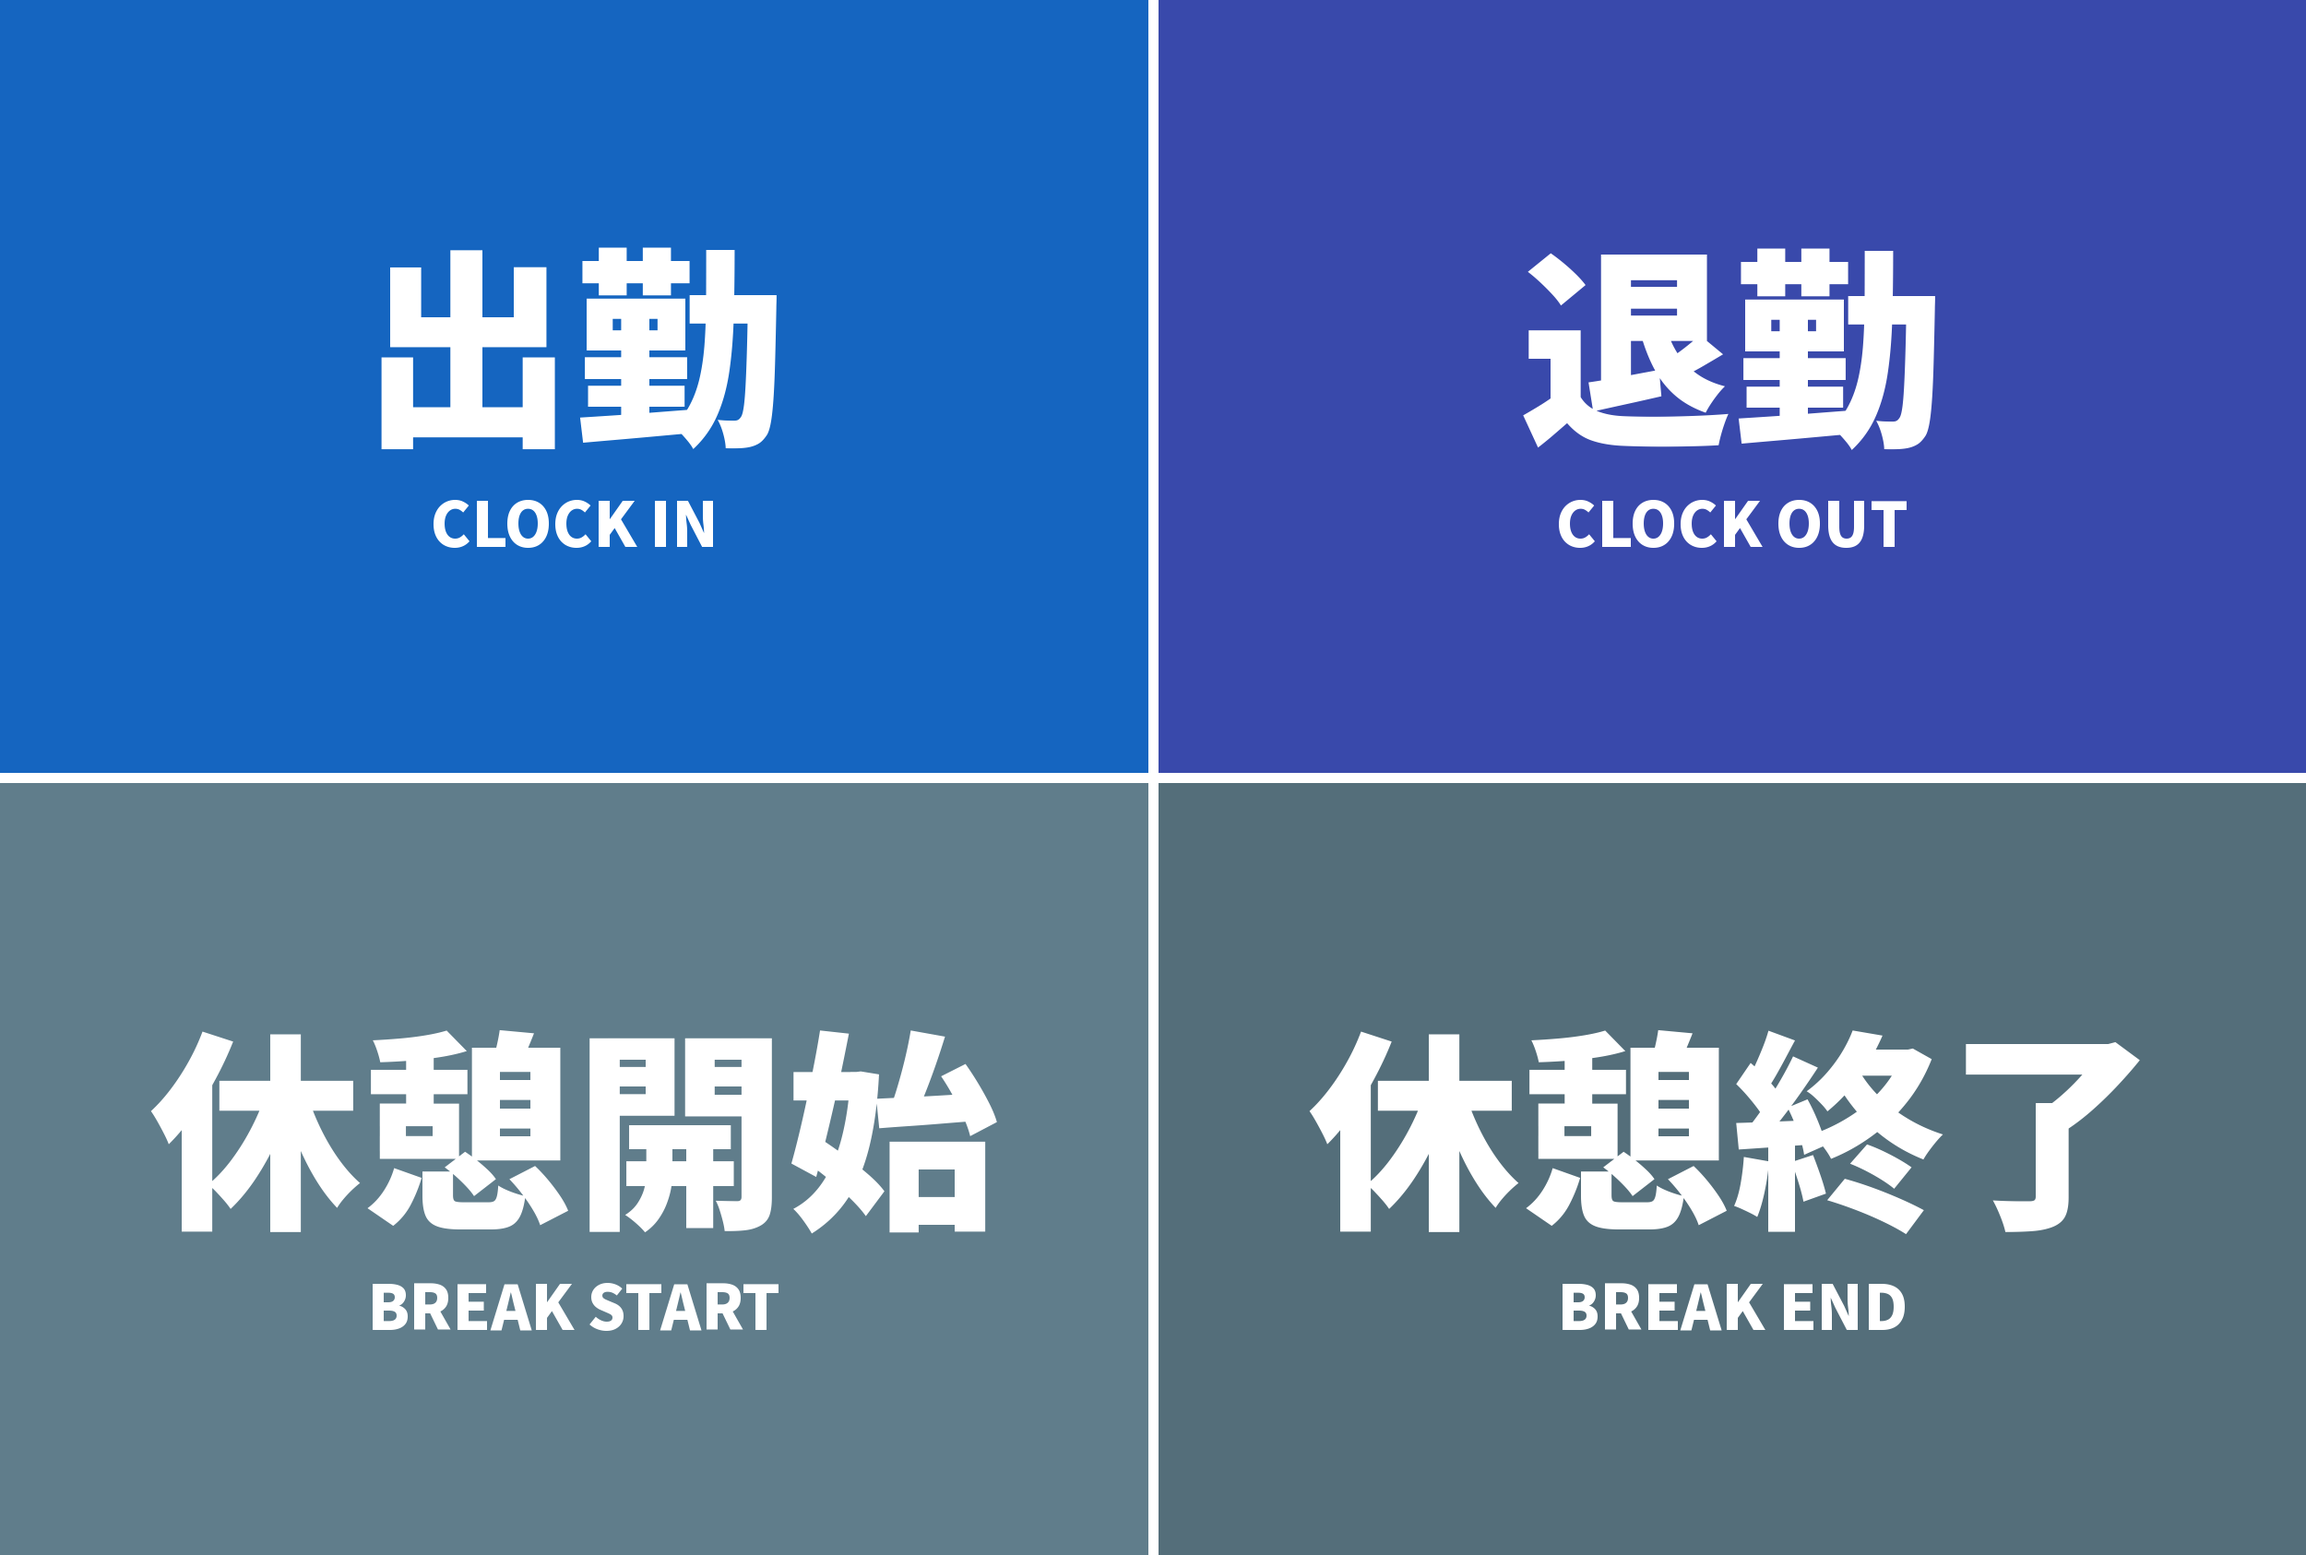
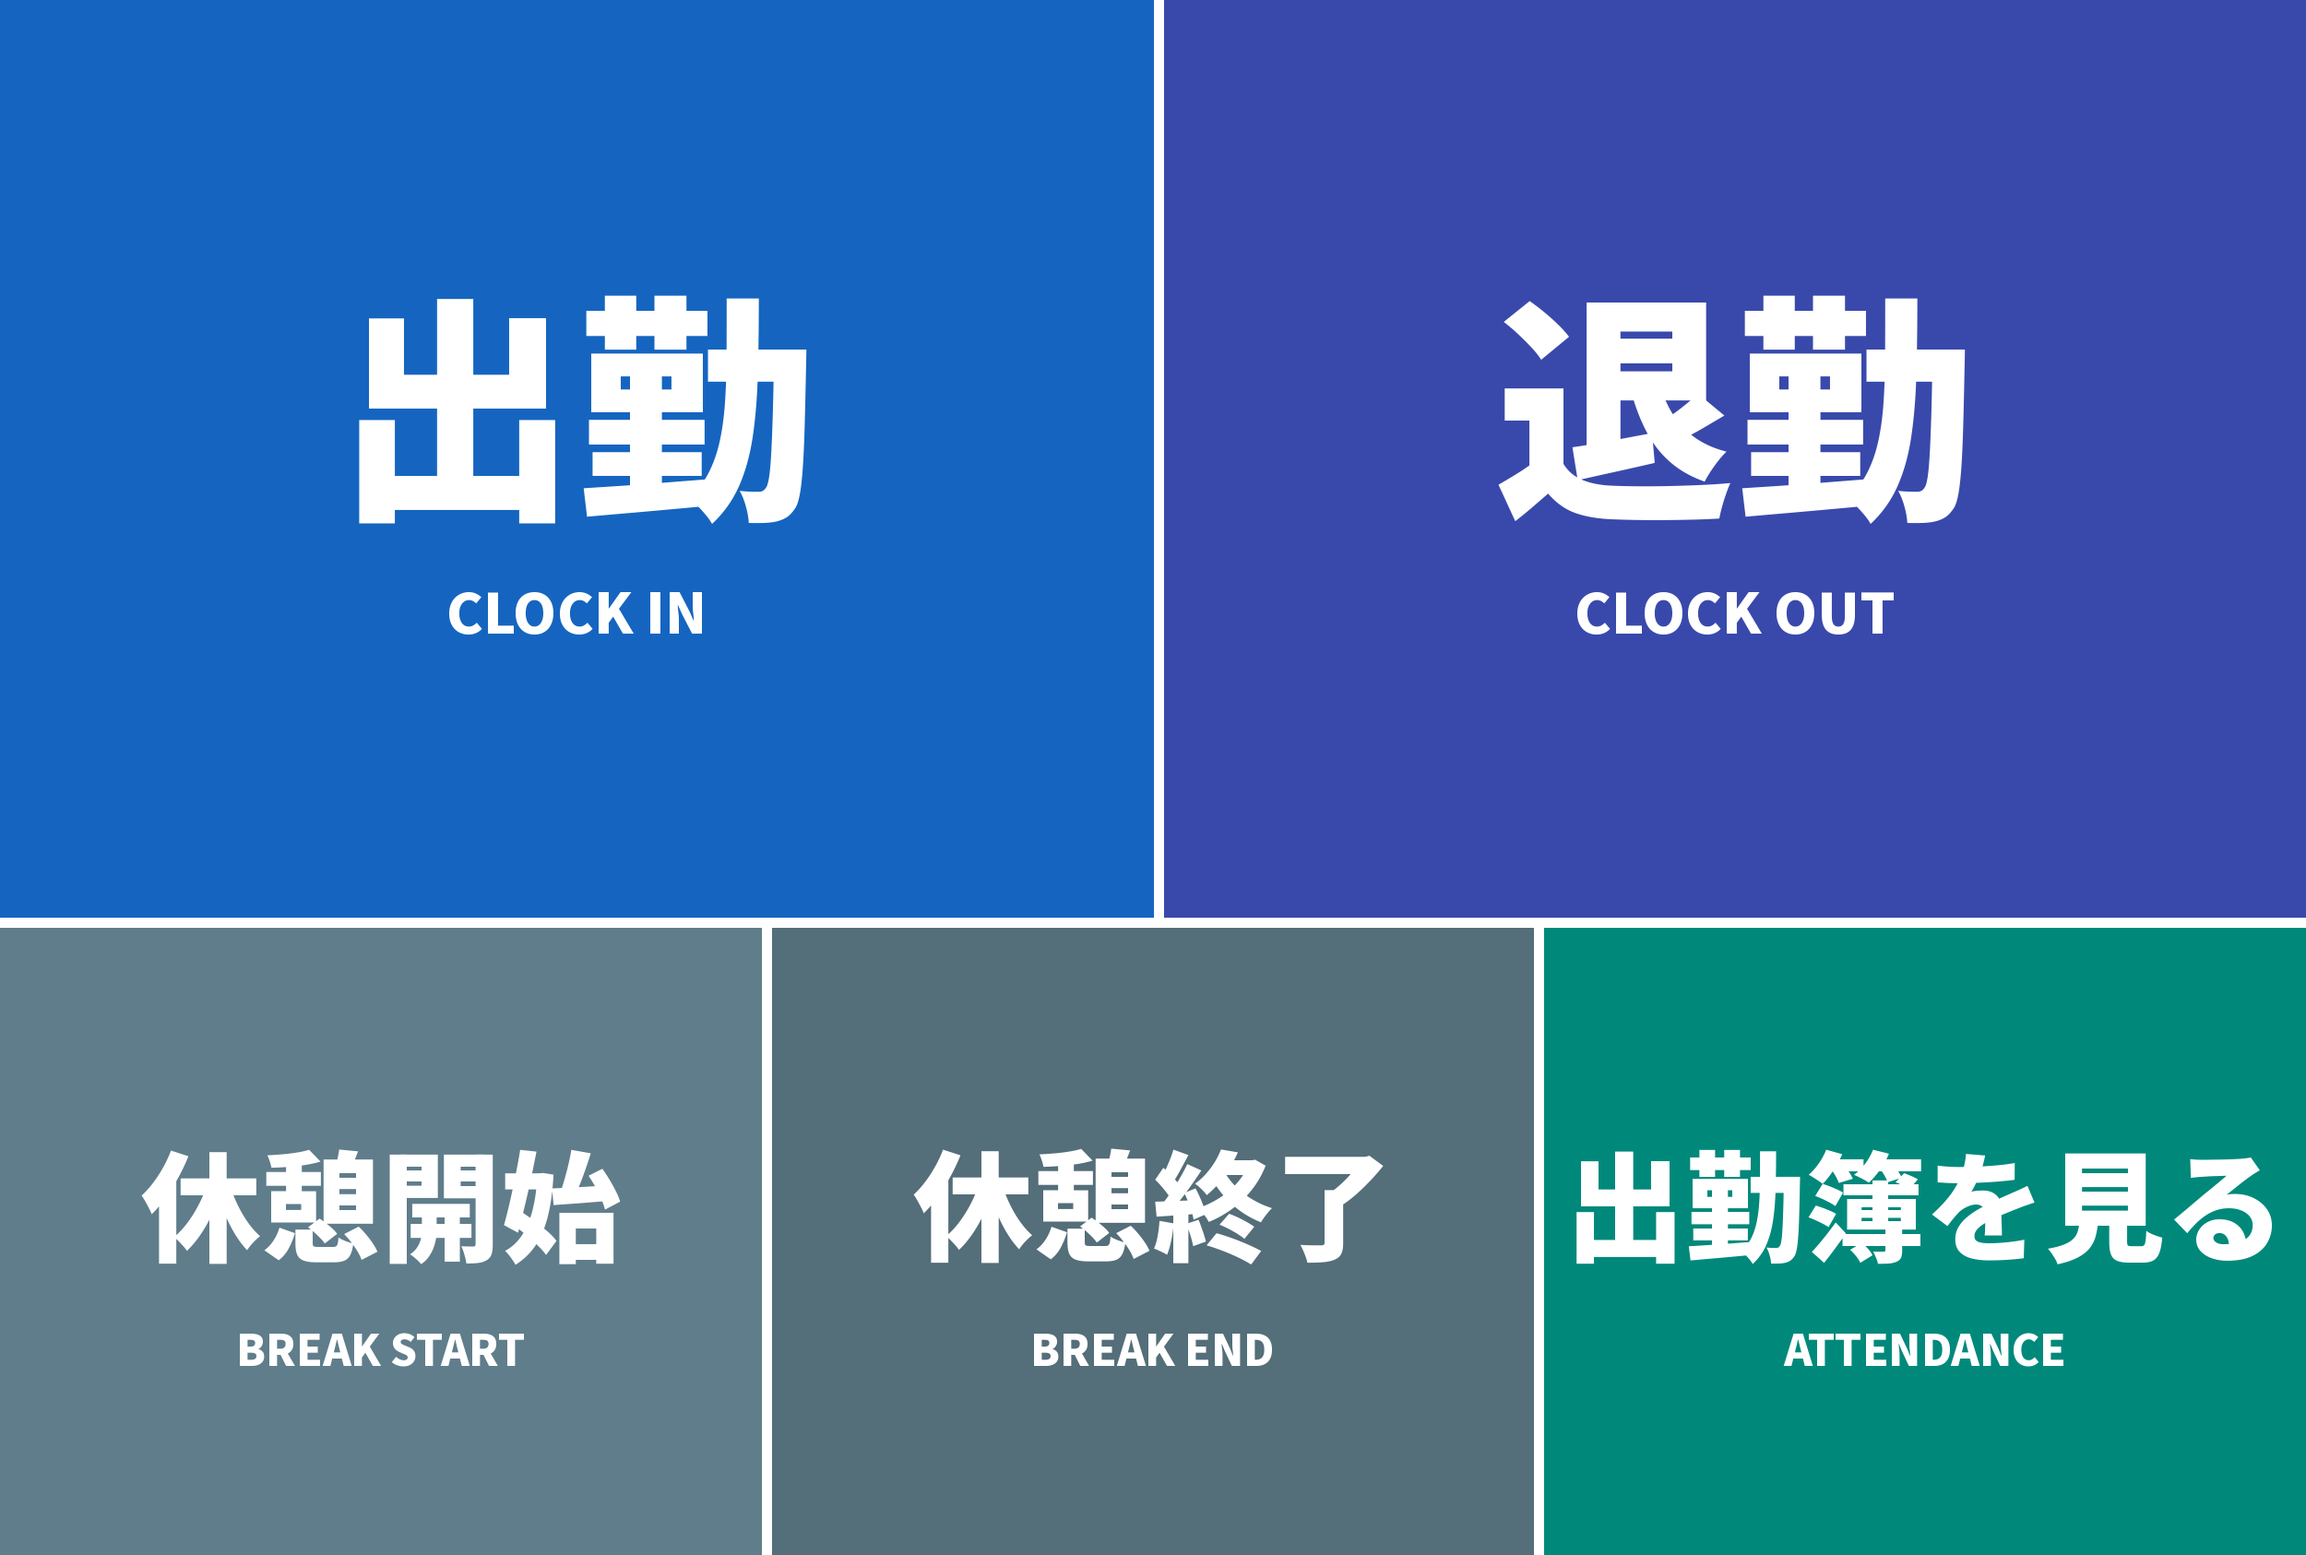
リッチメニューを5ボタン化（出勤簿を見るを追加）

diff --git a/generate_richmenu.py b/generate_richmenu.py
@@ -1,42 +1,54 @@
 #!/usr/bin/env python3
 # -*- coding: utf-8 -*-
-"""LINEリッチメニュー画像(2500x1686・2x2)を生成する。
-出勤/退勤/休憩開始/休憩終了の4ボタン。白極太ゴシック(NotoSansJP-Black)。
-出力: richmenu.png（GitHub Pagesで配信→GASがfetchしてLINEへアップロード）。
+"""LINEリッチメニュー画像(2500x1686)を生成する。
+上段(大): 出勤 / 退勤   下段: 休憩開始 / 休憩終了 / 出勤簿を見る
+白極太ゴシック(NotoSansJP-Black)。出力: richmenu.png
 """
 from PIL import Image, ImageDraw, ImageFont
 
 W, H = 2500, 1686
 GAP = 12
-CW, CH = (W - GAP) // 2, (H - GAP) // 2
-
+TOP_H = 1000
+BOT_H = H - TOP_H  # 686
 FONT = "/Users/kisinomasasi/projects/_clients/nexus/brazil-taisou/assets/fonts/NotoSansJP-Black.ttf"
-
-# 4象限: (ラベル, 英語, 背景色, 左上x, 左上y)
-CELLS = [
-    ("出勤",   "CLOCK IN",    (21, 101, 192),  0,         0),          # blue
-    ("退勤",   "CLOCK OUT",   (57, 73, 171),   CW + GAP,  0),          # indigo
-    ("休憩開始", "BREAK START", (96, 125, 139),  0,         CH + GAP),   # blue-gray
-    ("休憩終了", "BREAK END",   (84, 110, 122),  CW + GAP,  CH + GAP),   # darker gray
-]
 
 img = Image.new("RGB", (W, H), (255, 255, 255))
 d = ImageDraw.Draw(img)
-
-f_main = ImageFont.truetype(FONT, 230)
-f_sub = ImageFont.truetype(FONT, 66)
-
-
-def center(draw, cx, cy, text, font, fill):
-    l, t, r, b = draw.textbbox((0, 0), text, font=font)
-    draw.text((cx - (r - l) / 2 - l, cy - (b - t) / 2 - t), text, font=font, fill=fill)
+f_big = ImageFont.truetype(FONT, 260)
+f_mid = ImageFont.truetype(FONT, 130)
+f_sub = ImageFont.truetype(FONT, 60)
+f_sub2 = ImageFont.truetype(FONT, 46)
 
 
-for label, en, color, x, y in CELLS:
-    d.rectangle([x, y, x + CW, y + CH], fill=color)
-    cx, cy = x + CW / 2, y + CH / 2
-    center(d, cx, cy - 40, label, f_main, (255, 255, 255))
-    center(d, cx, cy + 150, en, f_sub, (255, 255, 255, 180))
+def center(cx, cy, text, font, fill):
+    l, t, r, b = d.textbbox((0, 0), text, font=font)
+    d.text((cx - (r - l) / 2 - l, cy - (b - t) / 2 - t), text, font=font, fill=fill)
+
+
+# 上段: 出勤 / 退勤
+top = [
+    ("出勤", "CLOCK IN", (21, 101, 192), 0, 1250),
+    ("退勤", "CLOCK OUT", (57, 73, 171), 1250 + GAP, 1250 - GAP),
+]
+for label, en, color, x, w in top:
+    d.rectangle([x, 0, x + w, TOP_H - GAP // 2], fill=color)
+    cx, cy = x + w / 2, TOP_H / 2
+    center(cx, cy - 55, label, f_big, (255, 255, 255))
+    center(cx, cy + 165, en, f_sub, (255, 255, 255))
+
+# 下段: 休憩開始 / 休憩終了 / 出勤簿を見る
+bw = (W - GAP * 2) // 3
+bot = [
+    ("休憩開始", "BREAK START", (96, 125, 139), 0),
+    ("休憩終了", "BREAK END", (84, 110, 122), bw + GAP),
+    ("出勤簿を見る", "ATTENDANCE", (0, 137, 123), (bw + GAP) * 2),
+]
+by = TOP_H + GAP // 2
+for label, en, color, x in bot:
+    d.rectangle([x, by, x + bw, H], fill=color)
+    cx, cy = x + bw / 2, by + BOT_H / 2
+    center(cx, cy - 40, label, f_mid, (255, 255, 255))
+    center(cx, cy + 115, en, f_sub2, (255, 255, 255))
 
 img.save("/Users/kisinomasasi/projects/_clients/higashimatsuyama-gakudo/kintai-liff-site/richmenu.png", "PNG")
 print("richmenu.png written", img.size)
